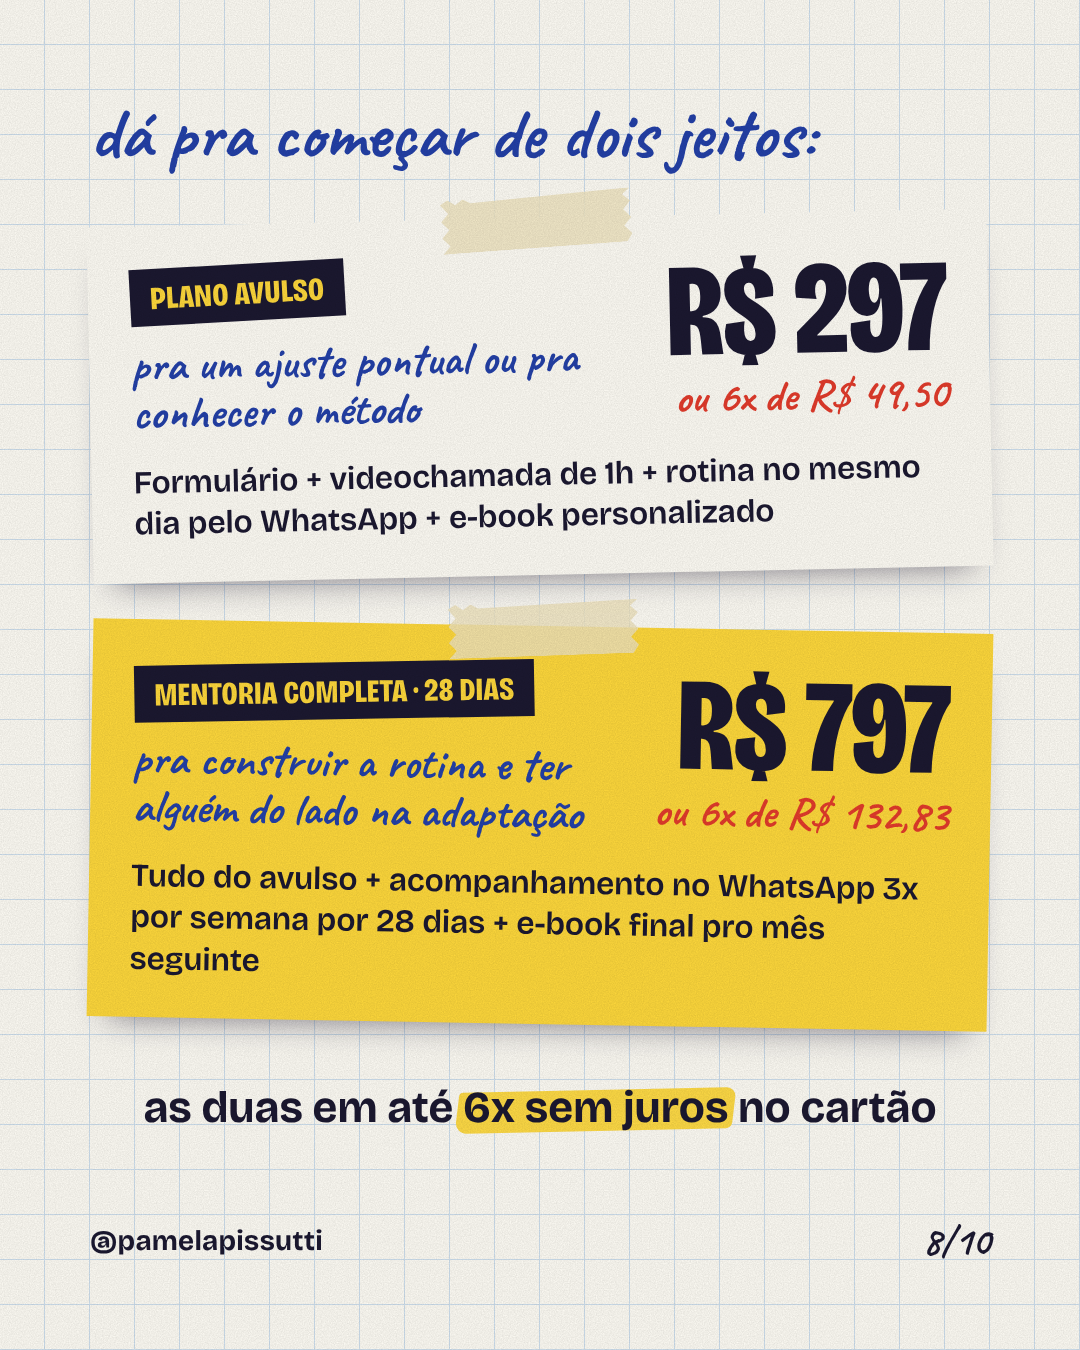
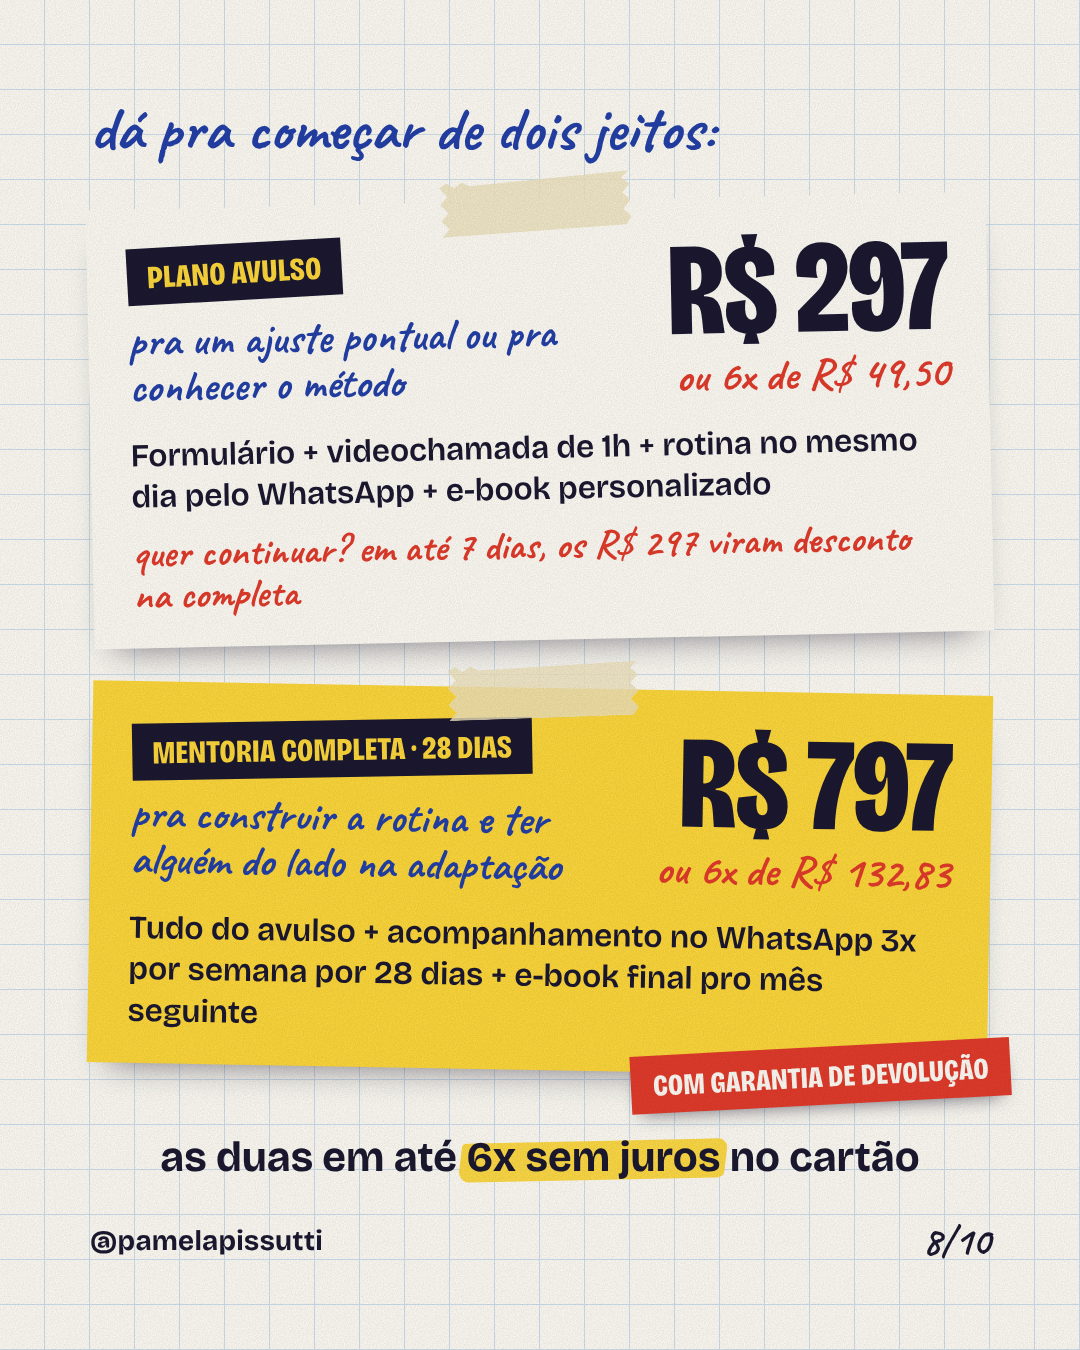
Feature the conditional refund guarantee in the Rotina Ideal carousel
Slide 9 now follows the site's "Termo de Garantia Condicional de
Devolução": full refund on the 28-day mentorship if the routine was
followed and sleep showed no improvement, with the three conditions a
mom must know up front (baby over 4 months, checklist twice a week,
replies within 2 business days). Slide 8 tags the full mentorship as
covered by the guarantee and moves the R$ 297 credit onto the single
session card. Caption and notes updated to match.

Claude-Session: https://claude.ai/code/session_016EYGA2exXZN97MRW6zcQJK

Changed region(s): [[0.0611, 0.1556, 0.9472, 0.9022], [0.0917, 0.0622, 0.7639, 0.1867]]

diff --git a/instagram/rotina-ideal-venda/slides.html b/instagram/rotina-ideal-venda/slides.html
@@ -460,56 +460,65 @@
   .quem .fatos span { font-size: 27px; }
 
   /* ---------- 8 · DUAS OPÇÕES ---------- */
-  .opcoes .abre { font-size: 72px; color: var(--caneta); }
+  .opcoes .abre { font-size: 62px; color: var(--caneta); }
   .plano {
     position: relative;
-    margin-top: 46px;
-    padding: 40px 42px 38px;
+    margin-top: 40px;
+    padding: 36px 40px 32px;
     box-shadow: 0 20px 34px -22px rgba(27, 24, 48, .6);
   }
   .plano .fita { top: -24px; left: 50%; margin-left: -95px; transform: rotate(-3deg); }
   .p-avulso { background: var(--papel); transform: rotate(-1.2deg); }
-  .p-completa { background: var(--amarelo); transform: rotate(1deg); margin-top: 52px; }
+  .p-completa { background: var(--amarelo); transform: rotate(1deg); margin-top: 48px; }
   .plano-topo { display: flex; justify-content: space-between; align-items: flex-start; gap: 24px; }
   .plano .etiqueta { display: inline-block; background: var(--tinta); color: var(--amarelo); transform: rotate(-2deg); font-size: 32px; }
-  .plano .pra-quem { font-size: 46px; color: var(--caneta); margin-top: 18px; max-width: 470px; }
+  .plano .pra-quem { font-size: 44px; color: var(--caneta); margin-top: 16px; max-width: 470px; }
   .plano .preco { display: flex; flex-direction: column; align-items: flex-end; flex: none; text-align: right; }
   .plano .preco .grito { font-size: 132px; }
   .plano .preco .mao { font-size: 44px; color: var(--vermelho); margin-top: 6px; }
   .plano .inclui { margin-top: 24px; font-size: 32px; line-height: 1.3; font-weight: 600; }
-  .opcoes .juros { margin-top: 56px; font-size: 44px; font-weight: 700; text-align: center; }
+  .opcoes .juros { margin-top: 62px; font-size: 42px; font-weight: 700; text-align: center; }
 
   /* ---------- 9 · GARANTIA ---------- */
-  .garantia .abre { font-size: 64px; color: var(--amarelo); }
-  .garantia .grito { font-size: 180px; margin-top: 26px; color: var(--papel); }
-  .garantia .grito span { display: inline-block; background: var(--amarelo); color: var(--tinta); padding: 14px 28px 0; margin-top: 16px; transform: rotate(-2deg); }
-  .garantia .selo { right: 70px; top: 240px; transform: rotate(10deg); }
+  .garantia .abre { font-size: 60px; color: var(--amarelo); }
+  .garantia .grito { font-size: 150px; margin-top: 22px; color: var(--papel); }
+  .garantia .grito span { display: inline-block; background: var(--amarelo); color: var(--tinta); padding: 12px 26px 0; margin-top: 12px; transform: rotate(-2deg); }
+  .garantia .selo { right: 64px; top: 250px; transform: rotate(10deg); width: 250px; height: 250px; }
   .garantia .selo b { font-size: 84px; }
-  .garantia .selo span { font-size: 28px; }
+  .garantia .selo span { font-size: 32px; }
   .garantia .nota {
     position: relative;
-    margin-top: 60px;
+    margin-top: 46px;
     background: var(--papel);
     color: var(--tinta);
-    padding: 38px 42px;
+    padding: 36px 40px 30px;
     transform: rotate(-1deg);
     box-shadow: 0 20px 34px -22px rgba(0, 0, 0, .7);
   }
   .garantia .nota .fita { top: -24px; left: 80px; transform: rotate(-4deg); }
-  .garantia .nota p { font-size: 38px; line-height: 1.3; font-weight: 500; }
+  .garantia .nota > p:first-of-type { font-size: 34px; line-height: 1.3; font-weight: 500; }
   .garantia .nota b { font-weight: 800; }
-  .garantia .cashback {
-    margin-top: 44px;
-    align-self: flex-end;
-    width: 760px;
-    background: var(--rosa);
-    color: var(--tinta);
-    transform: rotate(1.8deg);
+  .garantia .pra-valer { font-size: 46px; color: var(--vermelho); margin-top: 22px; }
+  .garantia .cond { display: flex; align-items: center; gap: 18px; margin-top: 12px; font-size: 31px; font-weight: 600; }
+  .garantia .cond .caixa { width: 46px; height: 46px; flex: none; }
+  .garantia .termo { font-size: 22px; margin-top: 18px; color: #5B5770; }
+
+  /* selos e extras do slide 8 */
+  .plano .extra { font-size: 40px; color: var(--vermelho); margin-top: 14px; }
+  .com-garantia {
+    position: absolute;
+    right: -24px;
+    bottom: -30px;
+    background: var(--vermelho);
+    color: var(--papel);
+    font-weight: 800;
+    font-stretch: condensed;
+    text-transform: uppercase;
+    font-size: 30px;
+    padding: 12px 22px 10px;
+    transform: rotate(-4deg);
+    box-shadow: 0 10px 18px -10px rgba(27, 24, 48, .6);
   }
-  .garantia .cashback .fita { top: -24px; right: 90px; transform: rotate(4deg); }
-  .garantia .cashback .mao { font-size: 48px; color: var(--caneta); }
-  .garantia .cashback p + p { font-size: 32px; line-height: 1.3; font-weight: 500; margin-top: 10px; }
-  .garantia .cashback b { font-weight: 800; }
 
   /* ---------- 9 · CTA ---------- */
   .cta .abre { font-size: 64px; color: var(--caneta); max-width: 860px; }
@@ -649,6 +658,7 @@
       <div class="preco"><span class="grito">R$ 297</span><span class="mao">ou 6x de R$ 49,50</span></div>
     </div>
     <p class="inclui">Formulário + videochamada de 1h + rotina no mesmo dia pelo WhatsApp + e-book personalizado</p>
+    <p class="mao extra">quer continuar? em até 7 dias, os R$&nbsp;297 viram desconto na completa</p>
   </div>
   <div class="plano p-completa">
     <span class="fita"></span>
@@ -657,6 +667,7 @@
       <div class="preco"><span class="grito">R$ 797</span><span class="mao">ou 6x de R$ 132,83</span></div>
     </div>
     <p class="inclui">Tudo do avulso + acompanhamento no WhatsApp 3x por semana por 28 dias + e-book final pro mês seguinte</p>
+    <span class="com-garantia">com garantia de devolução</span>
   </div>
   <p class="juros">as duas em até <mark>6x sem juros</mark> no cartão</p>
   <div class="rodape"><span class="arroba">@pamelapissutti</span><span class="pag">8/10</span></div>
@@ -664,17 +675,17 @@
 
 <!-- 9 · GARANTIA -->
 <section class="slide tinta garantia" id="s9">
-  <p class="mao abre">“e se eu me arrepender?”</p>
-  <h2 class="grito">7 dias de<br><span>garantia</span></h2>
-  <div class="selo"><b>100%</b><span>de volta<br>antes da<br>videochamada</span></div>
+  <p class="mao abre">“e se não funcionar pro meu bebê?”</p>
+  <h2 class="grito">Se nada<br>melhorar,<br><span>eu devolvo.</span></h2>
+  <div class="selo"><b>100%</b><span>do valor<br>de volta</span></div>
   <div class="nota">
     <span class="fita"></span>
-    <p>Comprou e mudou de ideia? Em até <b>7 dias depois da compra</b>, se a videochamada ainda não aconteceu, você recebe o <b>reembolso integral</b>.</p>
-  </div>
-  <div class="postit cashback">
-    <span class="fita"></span>
-    <p class="mao">começou pelo avulso e quer continuar?</p>
-    <p>Em até 7 dias depois da videochamada, os <b>R$&nbsp;297 viram desconto</b> na mentoria completa. Você completa com R$&nbsp;500.</p>
+    <p>Na <b>mentoria completa</b>: se você seguiu a rotina e, no fim dos 28 dias, o sono do seu bebê não teve <b>nenhuma melhora</b>, você recebe o valor integral de volta.</p>
+    <p class="mao pra-valer">pra garantia valer:</p>
+    <div class="cond"><svg class="caixa" viewBox="0 0 66 66"><path d="M8 10 L60 6 L62 60 L6 62 Z" fill="none" stroke="#1B1830" stroke-width="4" stroke-linejoin="round"/><path d="M14 34 L30 52 L64 4" fill="none" stroke="#E33B2B" stroke-width="7" stroke-linecap="round" stroke-linejoin="round"/></svg><span>bebê com mais de 4 meses no início</span></div>
+    <div class="cond"><svg class="caixa" viewBox="0 0 66 66"><path d="M6 8 L62 10 L58 62 L8 58 Z" fill="none" stroke="#1B1830" stroke-width="4" stroke-linejoin="round"/><path d="M14 34 L30 52 L64 4" fill="none" stroke="#E33B2B" stroke-width="7" stroke-linecap="round" stroke-linejoin="round"/></svg><span>checklist da rotina preenchido 2x por semana</span></div>
+    <div class="cond"><svg class="caixa" viewBox="0 0 66 66"><path d="M10 6 L60 10 L62 58 L6 60 Z" fill="none" stroke="#1B1830" stroke-width="4" stroke-linejoin="round"/><path d="M14 34 L30 52 L64 4" fill="none" stroke="#E33B2B" stroke-width="7" stroke-linecap="round" stroke-linejoin="round"/></svg><span>respostas aos meus pedidos em até 2 dias úteis</span></div>
+    <p class="termo">Condições completas no Termo de Garantia Condicional de Devolução.</p>
   </div>
   <div class="rodape"><span class="arroba">@pamelapissutti</span><span class="pag">9/10</span></div>
 </section>

diff --git a/instagram/rotina-ideal-venda/montador.html b/instagram/rotina-ideal-venda/montador.html
@@ -222,7 +222,9 @@ Tudo do avulso + acompanhamento no WhatsApp 3x por semana durante 28 dias + e-bo
 
 As duas em até 6x sem juros no cartão.
 
-E se você se arrepender? Em até 7 dias depois da compra, se a videochamada ainda não aconteceu, o reembolso é integral. E se começar pelo avulso e quiser continuar em até 7 dias depois da videochamada, os R$ 297 viram desconto na mentoria completa 💛
+E se não funcionar pro seu bebê? A mentoria completa tem garantia condicional de devolução: se você seguir a rotina e, no fim dos 28 dias, o sono do seu bebê não tiver nenhuma melhora, você recebe 100% do valor de volta. Pra garantia valer, o bebê precisa ter mais de 4 meses no início, você preenche o checklist da rotina 2x por semana e responde aos meus pedidos em até 2 dias úteis (as condições completas estão no termo de garantia).
+
+E se preferir começar pelo avulso e decidir continuar em até 7 dias depois da videochamada, os R$ 297 viram desconto na mentoria completa 💛
 
 💬 Comenta SONO que eu te mando no direct os detalhes e os links das duas opções (me segue antes, pra mensagem não cair nas solicitações).
 
@@ -231,7 +233,7 @@ E se você se arrepender? Em até 7 dias depois da compra, se a videochamada ain
       <button type="button" id="copiar">Copiar legenda</button>
       <small id="copiado" aria-live="polite"></small>
     </div>
-    <p class="aviso">Os valores e a garantia dos slides 8 e 9 vêm dos termos de contratação do seu site. Se mudar algum deles, me avise antes de postar.</p>
+    <p class="aviso">Os valores do slide 8 vêm dos termos dos planos, e a garantia do slide 9 vem do Termo de Garantia Condicional de Devolução do seu site. Se mudar algum deles, me avise antes de postar.</p>
   </section>
 </div>
 

diff --git a/instagram/rotina-ideal-venda/legenda.md b/instagram/rotina-ideal-venda/legenda.md
@@ -20,7 +20,9 @@ Tudo do avulso + acompanhamento no WhatsApp 3x por semana durante 28 dias + e-bo
 
 As duas em até 6x sem juros no cartão.
 
-E se você se arrepender? Em até 7 dias depois da compra, se a videochamada ainda não aconteceu, o reembolso é integral. E se começar pelo avulso e quiser continuar em até 7 dias depois da videochamada, os R$ 297 viram desconto na mentoria completa 💛
+E se não funcionar pro seu bebê? A mentoria completa tem garantia condicional de devolução: se você seguir a rotina e, no fim dos 28 dias, o sono do seu bebê não tiver nenhuma melhora, você recebe 100% do valor de volta. Pra garantia valer, o bebê precisa ter mais de 4 meses no início, você preenche o checklist da rotina 2x por semana e responde aos meus pedidos em até 2 dias úteis (as condições completas estão no termo de garantia).
+
+E se preferir começar pelo avulso e decidir continuar em até 7 dias depois da videochamada, os R$ 297 viram desconto na mentoria completa 💛
 
 💬 Comenta SONO que eu te mando no direct os detalhes e os links das duas opções (me segue antes, pra mensagem não cair nas solicitações).
 
@@ -30,7 +32,8 @@ E se você se arrepender? Em até 7 dias depois da compra, se a videochamada ain
 
 ## Antes de postar, confira
 
-- **De onde vieram os valores e a garantia:** dos termos de contratação dos planos "A Rotina Ideal · Plano Avulso" (R$ 297) e "A Rotina Ideal" (R$ 797) no seu site. Os dois dizem "em até 6 vezes sem juros no cartão". A garantia é o direito de arrependimento: reembolso integral em até 7 dias após a compra, se a videochamada ainda não tiver acontecido. O desconto de R$ 297 vale para quem passa do avulso para a completa em até 7 dias depois da videochamada.
+- **De onde vieram os valores e a garantia:** os preços e o "6x sem juros" vêm dos termos dos planos "A Rotina Ideal · Plano Avulso" (R$ 297) e "A Rotina Ideal" (R$ 797). A garantia vem do "Termo de Garantia Condicional de Devolução" do checkout: só vale para a mentoria completa, é integral (qualquer melhora relatada cancela a devolução), exige checklist 2x por semana da 2ª à 4ª semana, no máximo 3 atrasos de resposta (prazo de 2 dias úteis), não vale para bebês de 0 a 4 meses no início e tem que ser pedida por escrito em até 7 dias depois do fim. No slide entraram as três condições que a mãe precisa saber antes de comprar; o resto fica no termo.
+- **Atenção no termo do checkout:** a última linha do texto é "Quando quiser seguir para a versão resumida do site, é só me chamar.", que parece ter sobrado de quando o texto foi escrito. Vale apagar essa frase no painel da Wix (Configurações de checkout > Política de devolução).
 - **Parcelas:** 297 ÷ 6 = R$ 49,50 e 797 ÷ 6 = R$ 132,83. Confira se o checkout mostra os mesmos valores.
 - **Clube de Mães:** tirei o "quem é do Clube paga menos", porque os termos atuais não falam de desconto para o Clube. Se existir, me avise que eu coloco de volta.
 - **Slide 7:** sem foto, ele sai com o cartão "oi, eu sou a Pâmela". Uma foto sua costuma converter mais; dá para colocar na página de montagem.
@@ -52,6 +55,6 @@ Deixe o link para depois da resposta dela: primeiro escute, depois mostre como A
 5. "Foi por isso que eu criei A Rotina Ideal: mentoria particular, rotina feita pro seu bebê, videochamada comigo, sem promessa milagrosa."
 6. "Como funciona: formulário sobre o bebê, videochamada de 1 hora, rotina no mesmo dia pelo WhatsApp e, na mentoria completa, acompanhamento 3x por semana por 28 dias."
 7. "Prazer, Pâmela Pissutti: mentora de mães, mãe também, pós-graduanda em neurociência do sono infantil."
-8. "Dá pra começar de dois jeitos: plano avulso por R$ 297 ou 6x de R$ 49,50; mentoria completa de 28 dias por R$ 797 ou 6x de R$ 132,83. As duas em até 6x sem juros."
-9. "7 dias de garantia: reembolso integral em até 7 dias depois da compra, se a videochamada ainda não aconteceu. Quem começa pelo avulso e continua em até 7 dias tem os R$ 297 de desconto na mentoria completa."
+8. "Dá pra começar de dois jeitos: plano avulso por R$ 297 ou 6x de R$ 49,50, com os R$ 297 virando desconto se continuar em até 7 dias; mentoria completa de 28 dias por R$ 797 ou 6x de R$ 132,83, com garantia de devolução. As duas em até 6x sem juros."
+9. "E se não funcionar pro meu bebê? Se nada melhorar, eu devolvo: na mentoria completa, se a rotina foi seguida e o sono do bebê não teve nenhuma melhora em 28 dias, 100% do valor volta. Pra valer: bebê com mais de 4 meses, checklist 2x por semana e respostas em até 2 dias úteis."
 10. "Comenta SONO que eu te mando no direct os detalhes e os links das duas opções."
